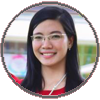
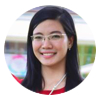
update styles with cropped image

Changed region(s): [[0.0, 0.0, 1.0, 0.99]]

diff --git a/app/assets/stylesheets/application.scss b/app/assets/stylesheets/application.scss
@@ -759,6 +759,9 @@ h2, h3, h4, h5, h6, strong, .bold-text {
     color: #fff;
     opacity: 1;
   }
+  .trip-gallery-photo-item{
+    object-fit: cover;
+  }
   .facebook-album-list {
     font-size: 18px;
     th {
@@ -929,6 +932,7 @@ h2, h3, h4, h5, h6, strong, .bold-text {
   display: inline-block;
   margin: 0 auto;
   h2 {
+    display: inline-block;
     color: #900C0C;
   }
 }
@@ -975,12 +979,12 @@ h2, h3, h4, h5, h6, strong, .bold-text {
 }
 
 .basic-info {
-  width: 400px;
+  width: 300px;
 }
 
 .horizontal-block-center {
   text-align: center;
-  padding: 16px;
+  margin-top: 16px;
 }
 
 .horizontal-block-center-bg-yellow {
@@ -1021,6 +1025,7 @@ h2, h3, h4, h5, h6, strong, .bold-text {
   background-clip: padding-box;
   position: relative;
   z-index: -1;
+  object-fit: cover;
 }
 
 .card .card-image span.card-title {
@@ -1058,7 +1063,7 @@ h2, h3, h4, h5, h6, strong, .bold-text {
 }
 
 .card .card-action a {
-  color: #ffab40;
+  color: #fff;
   margin-right: 16px;
   transition: color 0.3s ease;
   text-transform: uppercase;
@@ -1153,8 +1158,7 @@ h2.home-info{
     width: 100%;
     float: left;
     img{
-      width: 100%;
-      height: 152px;
+      object-fit: cover;
       border-bottom: 1px solid #777;
     }
   }
